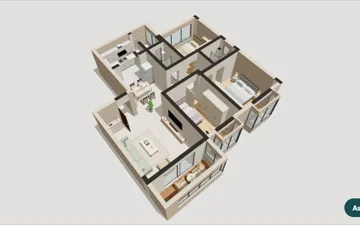
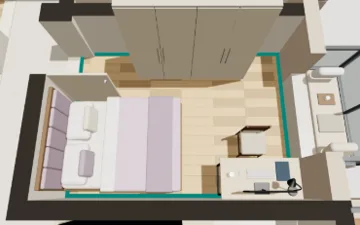
Use neutral Perla and meaningful Studio E3 imagery

diff --git a/js/e3-entregas-ui.js b/js/e3-entregas-ui.js
@@ -85,7 +85,7 @@
    box.replaceChildren();el('span',e.formato,box,'e3-formato');
   },{once:true});
   i.src=proyecto||`assets/e3/thumbs/${e.id}.webp`;
-  el('span',proyecto?tx('Tu proyecto','Your project','你的项目'):e.id==='render-ia'?tx('Vista de partida','Source view','起始视图'):tx('Ejemplo','Example','示例'),box,'e3-sello');
+  el('span',proyecto?tx('Tu proyecto','Your project','你的项目'):e.id==='render-ia'?tx('Dormitorio','Bedroom','卧室'):tx('Ejemplo','Example','示例'),box,'e3-sello');
  }
  const seleccionVacia=()=>tx('Selecciona al menos un entregable para continuar.','Choose at least one deliverable to continue.','请至少选择一项交付物以继续。');
  const chip=e=>e.firma==='nunca'?tx('Siempre limpia','Always clean','始终无标识'):e.firma==='imagen'?tx('Limpia o con tu firma','Clean or signed','无标识或带签名'):tx('Opciones del generador','Generator options','生成器选项');
@@ -147,9 +147,9 @@
  }
  window.RubikE3Entregables={card,abrir,firmarRender,get seleccion(){return valida().slice();},set seleccion(v){sel=[...v];valida();}};
  const css=document.createElement('style');css.textContent=`
- .e3-dlg{width:min(1040px,96vw);max-height:92vh;max-height:92dvh;border:0;border-radius:16px;padding:18px;background:#fbf8f3;color:var(--ink);box-sizing:border-box;overflow:hidden}
+ .e3-dlg{width:min(1040px,96vw);max-height:92vh;max-height:92dvh;border:0;border-radius:16px;padding:18px;background:var(--surface-app);color:var(--ink);box-sizing:border-box;overflow:hidden}
  .e3-dlg[open]{display:grid;grid-template-columns:auto minmax(0,1fr);grid-template-rows:auto auto auto auto minmax(0,1fr) auto}
- .e3-dlg::backdrop{background:rgba(20,18,16,.45)}
+ .e3-dlg::backdrop{background:rgb(31 35 38 / .42)}
  .e3-cab,.e3-pasos,.e3-firma,.e3-estado,.e3-cuerpo{grid-column:1/-1}
  .e3-cab{display:flex;justify-content:space-between;align-items:center;gap:8px}.e3-cab h2{font-family:Georgia,serif;margin:0;font-size:clamp(20px,3vw,26px)}
  .e3-cerrar{flex:none;width:44px;height:44px;border-radius:999px;border:1px solid var(--line);background:var(--surface-panel);font-size:22px;cursor:pointer}
@@ -158,7 +158,8 @@
  .e3-firma{font-size:13px;color:var(--ink-muted);margin:0 0 4px}.e3-estado{font-size:13px;color:var(--ink);margin:2px 0 4px}
  .e3-estado:empty{margin:0}
  .e3-cuerpo{min-height:0;display:grid;align-content:start;gap:12px;overflow:auto;overscroll-behavior:contain;padding:4px;scroll-padding:4px;scrollbar-gutter:stable}
- .e3-grupo{min-width:0;border:0;padding:0;margin:0;display:grid;grid-template-columns:repeat(2,minmax(0,1fr));gap:8px}.e3-grupo legend{font-family:Georgia,serif;font-size:18px;margin:6px 0}
+ .e3-grupo{min-width:0;border:0;padding:0;margin:0;display:grid;align-content:start;grid-template-columns:repeat(2,minmax(0,1fr));gap:8px}.e3-grupo legend{font-family:Georgia,serif;font-size:18px;margin:6px 0}
+ .e3-dlg .e3-item{margin:0}
  .e3-item{display:grid;grid-template-columns:auto 112px minmax(0,1fr);grid-template-areas:'c m t' 'c m h';gap:3px 8px;align-items:center;padding:8px;border-radius:12px;background:var(--surface-panel);border:1px solid var(--line);cursor:pointer;min-height:68px}
  .e3-item:has(input:checked){border-color:var(--line-strong);background:var(--select-soft)}
  .e3-item:focus-within{outline:2px solid var(--focus);outline-offset:1px}
@@ -175,7 +176,7 @@
  .e3-acc .btn[aria-busy=true]{opacity:.7;cursor:progress}
  .e3-pie{grid-area:6/2;min-width:0;display:flex;flex-wrap:wrap;gap:6px;justify-content:flex-end;align-items:center;padding:6px 0 0 6px;border-top:1px solid var(--line)}
  .e3-dlg #assistantAccess{grid-area:6/1;position:static;align-self:start;margin:0;padding:6px 6px 0 0;max-width:none;border-top:1px solid var(--line)}
- @media(max-width:720px){.e3-grupo,.e3-par{grid-template-columns:minmax(0,1fr)}.e3-item{grid-template-columns:auto 80px minmax(0,1fr)}.e3-dlg{padding:12px}}
+ @media(max-width:720px){.e3-grupo,.e3-par{grid-template-columns:minmax(0,1fr)}.e3-item{grid-template-columns:auto clamp(68px,23vw,100px) minmax(0,1fr)}.e3-dlg{padding:12px}}
  @media(max-height:440px){.e3-dlg{padding:8px 12px}.e3-cab h2{font-size:20px}.e3-pasos{margin:3px 0}.e3-firma{font-size:12px}}
  `;document.head.append(css);
 })();

diff --git a/docs/integration/HANDOFF-STUDIO-E3-ENTREGABLES.md b/docs/integration/HANDOFF-STUDIO-E3-ENTREGABLES.md
@@ -35,19 +35,19 @@ El catálogo ofrece diez accesos. La prueba de vistas acredita la generación co
 
 ## Pulido visual y procedencia
 
-Las diez miniaturas de `assets/e3/thumbs` se cargan al acercarse a la zona visible. La ficha de vistas toma una imagen del proyecto cuando el generador ya dispone de ella. El resto usa ejemplos, con el origen indicado en la tarjeta. Render IA muestra su vista de partida. La selección usa el rol grafito de Perla. El área que se desplaza contiene las opciones. El avance y el Asistente ocupan zonas propias debajo. La selección vacía indica qué hacer para continuar.
+Las diez miniaturas de `assets/e3/thumbs` se cargan al acercarse a la zona visible. La ficha de vistas toma una imagen del proyecto cuando el generador ya dispone de ella. El resto usa ejemplos, con el origen indicado en la tarjeta. Render IA muestra un dormitorio de ejemplo como vista de partida. El diálogo usa el fondo gris Perla, tarjetas blancas, selección grafito y la acción principal petróleo. El área que se desplaza contiene las opciones. El avance y el Asistente ocupan zonas propias debajo. La selección vacía indica qué hacer para continuar.
 
 | Miniatura | Fuente del producto |
 | --- | --- |
 | Vistas reales | Primera imagen limpia de `FloorPlanProjectViews`, generada desde la vivienda de ejemplo. |
-| Render IA | Imagen de entrada en el diálogo de Render IA con la vivienda de ejemplo. |
-| Blender | Render Cycles publicado en `assets/e3/op10-entrega-viewer.jpg`. |
+| Render IA | Detalle del dormitorio juvenil, una vista de proyecto que puede utilizarse como entrada. Captura en Chromium desde FloorPlanProjectViews, sin generar una imagen con IA. |
+| Blender | Vista interior del salón. Render Cycles publicado en `docs/integration/op10-evidence/entrega-1600x1000-rom_living.jpg`. |
 | Lámina, superficies y dossier | Lámina, tabla y vista previa del dossier de la vivienda de ejemplo, capturadas en sus generadores existentes. |
 | Presentación y vídeo | Presentación activa de ejemplo y fotograma de la vista previa de un recorrido grabado localmente, con los controles de reproducción visibles. |
 | Archivo para tu cliente | HTML de ejemplo descargado y abierto en Chromium. |
 | Enlace para tu cliente | Diálogo de consentimiento con el campo de código vacío. |
 
-Las capturas se obtuvieron con Chromium en la Preview de `eef09ae7f3635f01d7b65916823bb5fb3948f787` con datos de ejemplo. Las diez imágenes WebP de 360 × 225 suman 71.396 bytes. El navegador puede hacer la comparación y recorrer las fichas antes de preparar las imágenes del proyecto.
+Las capturas se obtuvieron con Chromium en la Preview de `eef09ae7f3635f01d7b65916823bb5fb3948f787` y la candidata local de E3, con datos de ejemplo. Las diez imágenes WebP de 360 × 225 suman 70.408 bytes. El navegador puede hacer la comparación y recorrer las fichas antes de preparar las imágenes del proyecto.
 
 ## Cierre del corte
 
